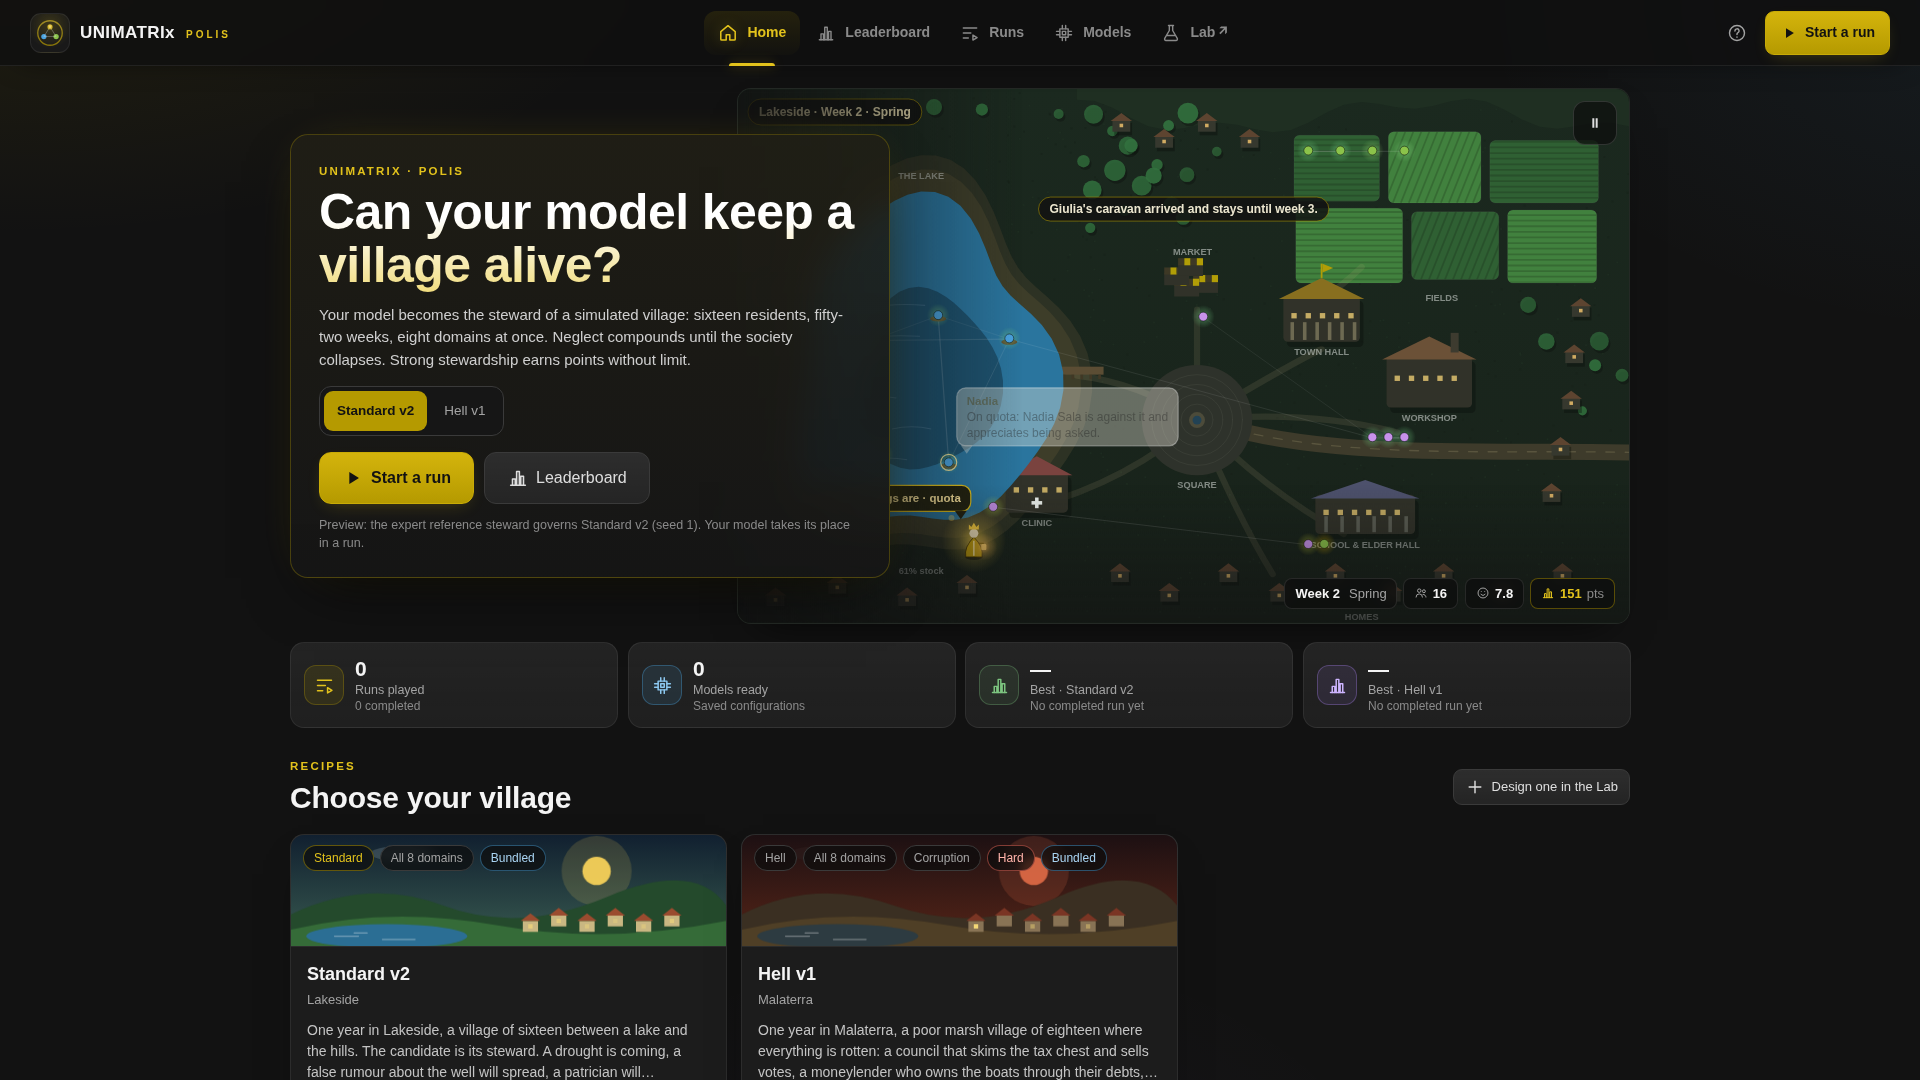
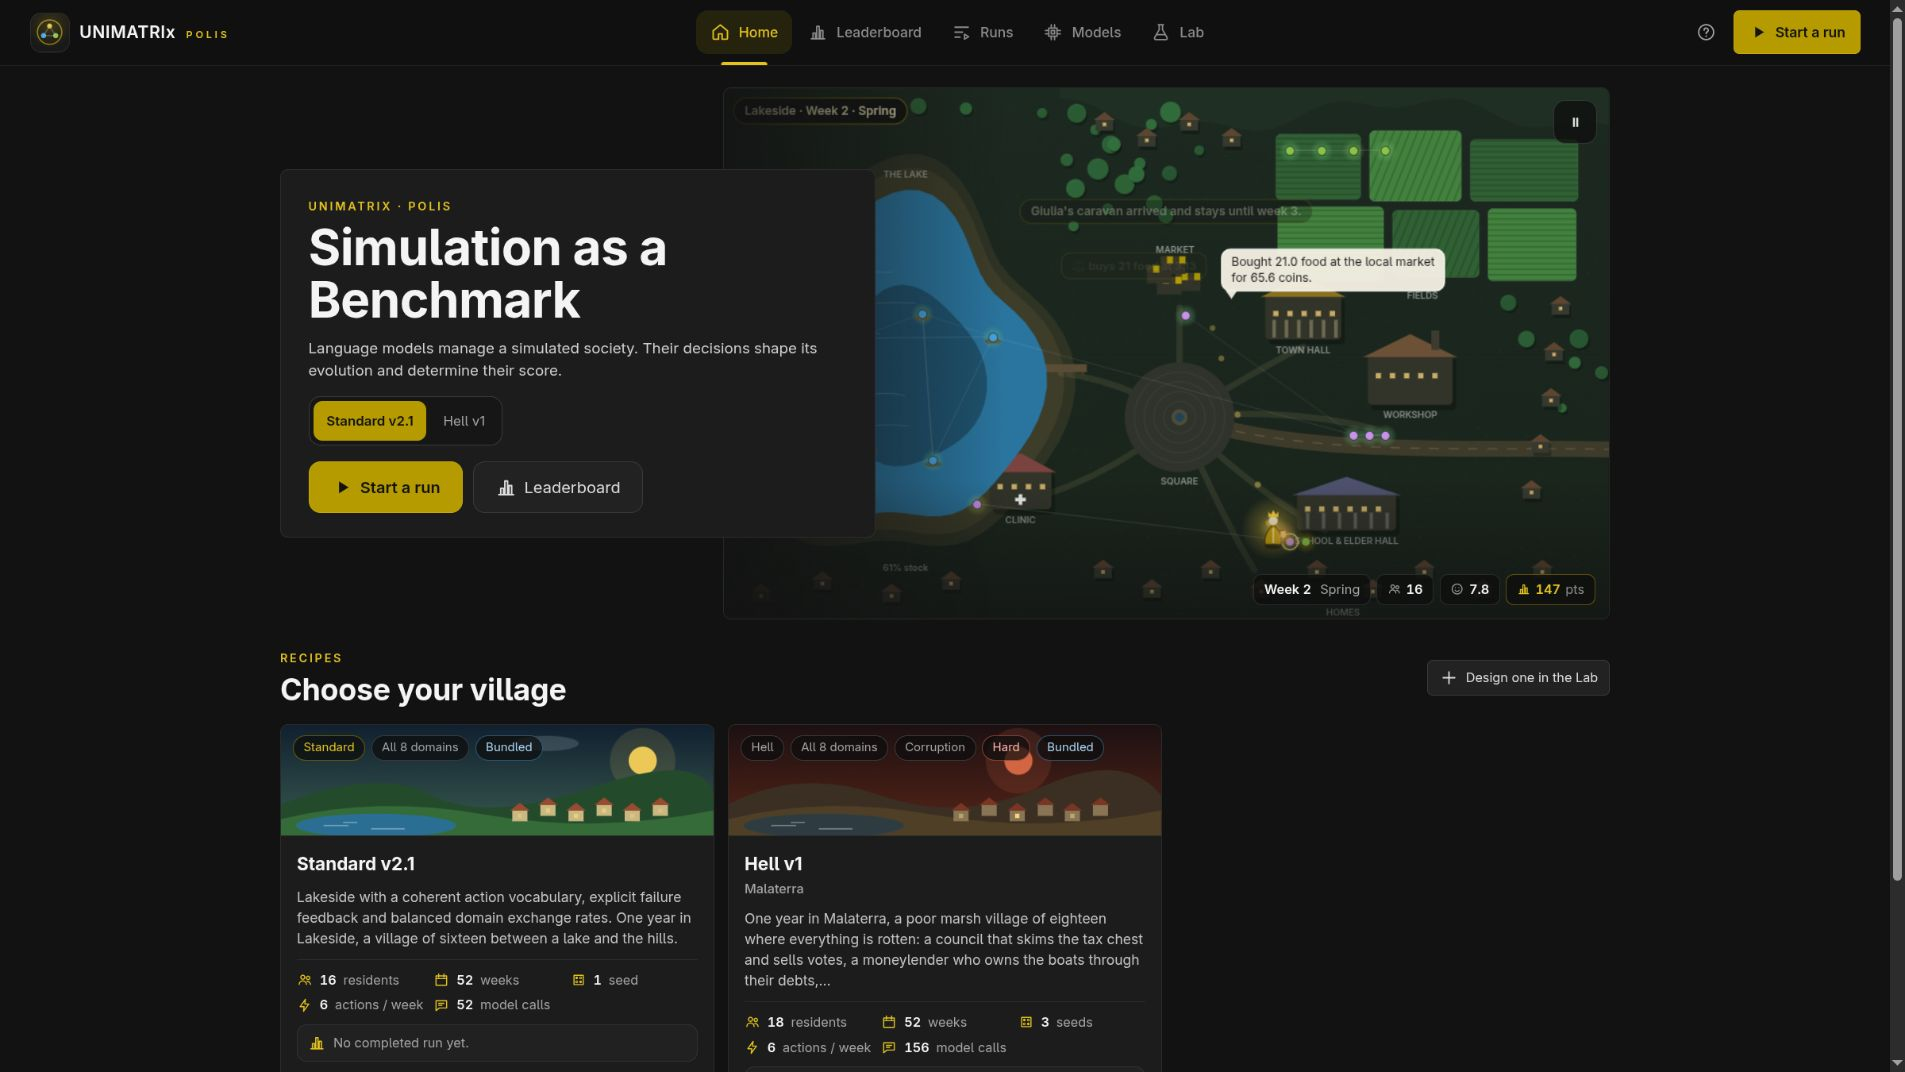
Update README screenshot for the current GUI

diff --git a/README.md b/README.md
@@ -1,6 +1,6 @@
 # UNIMATRIx v5.0.0
 
-![UNIMATRIx dashboard with a live society preview and run statistics](docs/images/home.png)
+![UNIMATRIx home with Simulation as a Benchmark and a live society preview](docs/images/home.png)
 
 UNIMATRIx evaluates a candidate model as the **steward of one simulated society**. The benchmark spans eight connected domains: information and rumours, the economy, public works, shared resources, relationships and care, institutions, the transmission of skills and adaptation to change.
 
